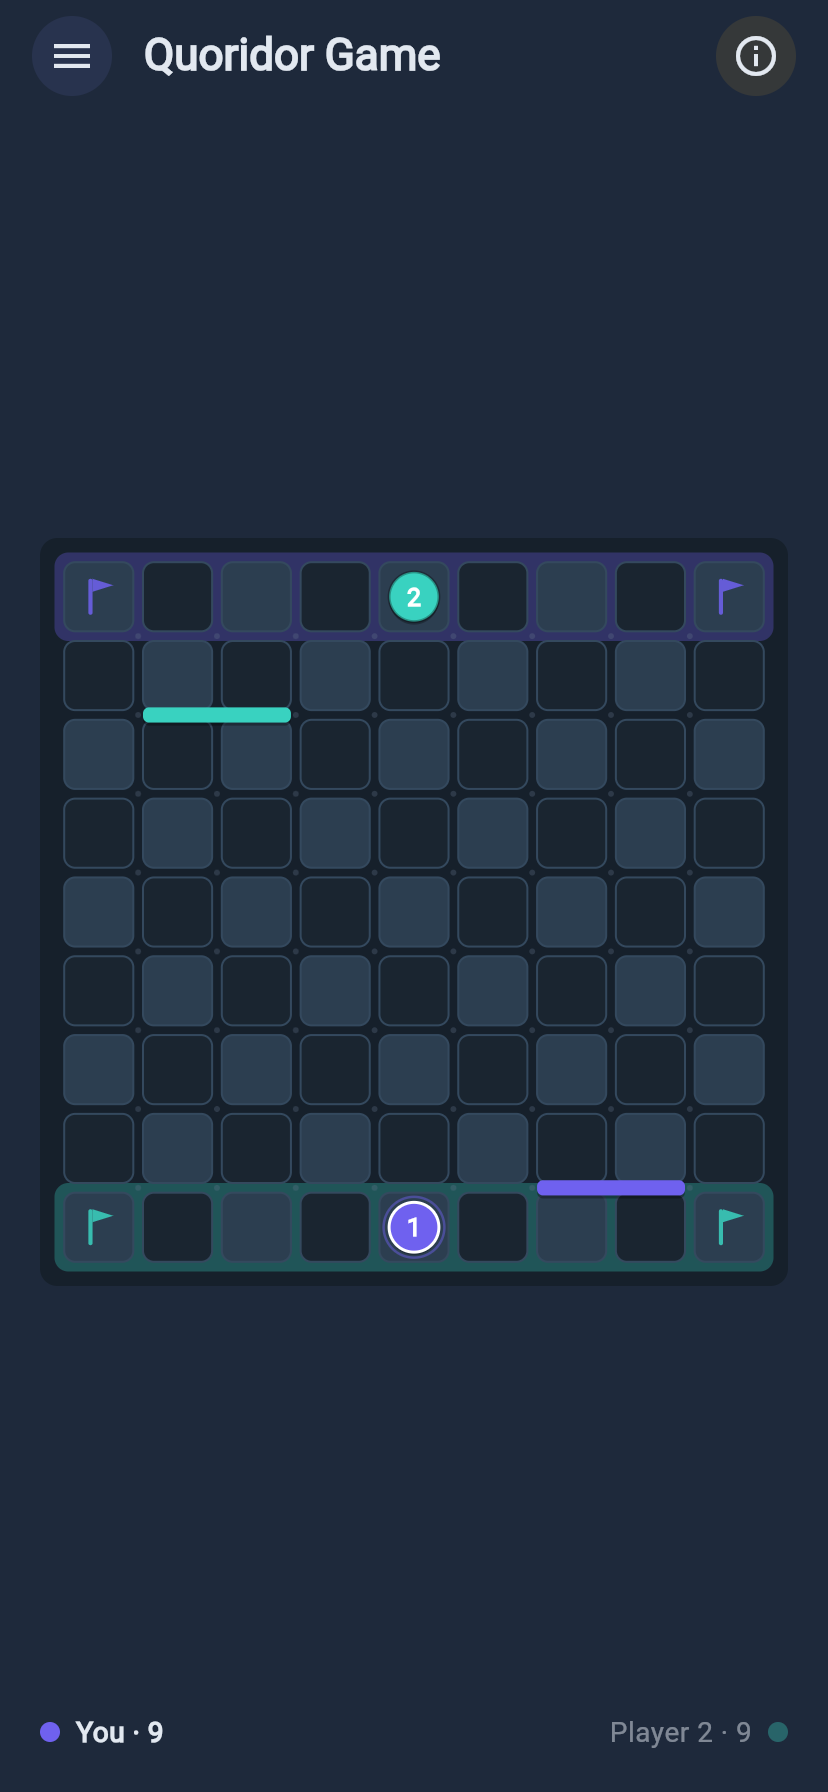
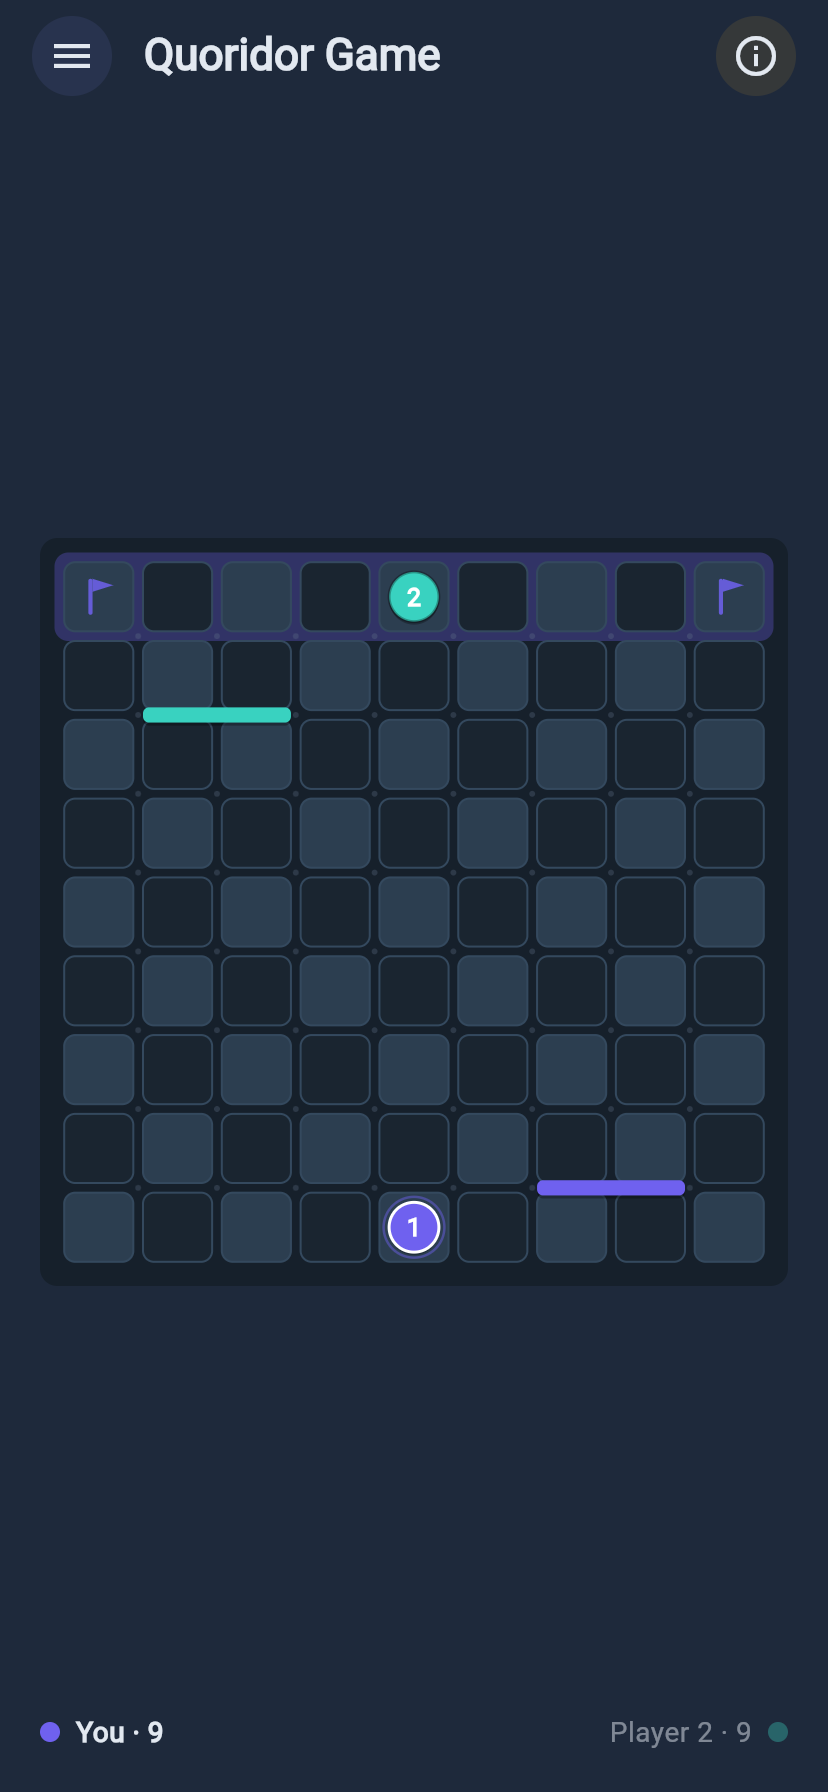
Show the goal strip only for the player to move
The strip is not a legend, it is an answer to "which way am I running" -- so it
belongs to whoever is about to play. It now tints and flags only the current
player's goal row, and swaps ends when the turn passes, which is what makes it
readable at a glance rather than something to decode.

Claude-Session: https://claude.ai/code/session_018MctSY9xbiE2iCSkYMFfts

Changed region(s): [[0.0604, 0.6562, 0.936, 0.7188]]

diff --git a/lib/flame/board_component.dart b/lib/flame/board_component.dart
@@ -205,8 +205,18 @@ class BoardComponent extends PositionComponent {
     );
   }
 
-  /// Tints each player's target row, so it is obvious which way you are
-  /// running without reading anything. The flags go on top, in
+  /// The goal row belonging to whoever is to move.
+  ({int row, Color color}) get _currentGoal => _gameState.currentPlayerId == 1
+      ? (
+          row: GameConstants.player1Goal,
+          color: const Color(GameConstants.player1Color),
+        )
+      : (
+          row: GameConstants.player2Goal,
+          color: const Color(GameConstants.player2Color),
+        );
+
+  /// Tints the row the player to move is heading for. The flags go on top, in
   /// [_drawGoalFlags].
   void _drawGoalRows(Canvas canvas) {
     void markRow(int row, Color color) {
@@ -230,9 +240,11 @@ class BoardComponent extends PositionComponent {
       );
     }
 
-    // Player 1 runs to the top row, player 2 to the bottom row.
-    markRow(GameConstants.player1Goal, const Color(GameConstants.player1Color));
-    markRow(GameConstants.player2Goal, const Color(GameConstants.player2Color));
+    // Only the player to move sees their target row. Showing both at once
+    // says where the ends are; showing one says where *you* are going, and the
+    // strip appearing on your turn is what answers "which way am I running".
+    final goal = _currentGoal;
+    markRow(goal.row, goal.color);
   }
 
   /// Flags at both ends of each goal row.
@@ -249,8 +261,8 @@ class BoardComponent extends PositionComponent {
       );
     }
 
-    flagsOn(GameConstants.player1Goal, const Color(GameConstants.player1Color));
-    flagsOn(GameConstants.player2Goal, const Color(GameConstants.player2Color));
+    final goal = _currentGoal;
+    flagsOn(goal.row, goal.color);
   }
 
   /// A small pennant on a pole, centred on [center].

diff --git a/README.md b/README.md
@@ -28,7 +28,7 @@ build is deployed to GitHub Pages from `main` on every push.
 
 | Choose a game mode | The board | Pawn picked up |
 |---|---|---|
-| ![Game mode selection](docs/screenshots/01-game-mode.png) | ![The board, with a flagged goal row at each end](docs/screenshots/02-board.png) | ![The pawn picked up, showing where it can go](docs/screenshots/03-move.png) |
+| ![Game mode selection](docs/screenshots/01-game-mode.png) | ![The board, with the player to move's goal row flagged](docs/screenshots/02-board.png) | ![The pawn picked up, showing where it can go](docs/screenshots/03-move.png) |
 
 | Aiming a wall | Walls placed | Settings |
 |---|---|---|
@@ -52,8 +52,9 @@ wall may never leave either player with no path at all to their goal row. It
 may only make the journey longer.
 
 You win by reaching the row on the opposite side of the board. Player 1 starts
-at the bottom and runs to the top row; player 2 does the reverse. Each goal row
-is tinted and carries a flag at both ends, in that player's colour.
+at the bottom and runs to the top row; player 2 does the reverse. On each turn
+the board tints and flags the goal row belonging to whoever is to move, so the
+strip swaps ends as play alternates.
 
 ### The controls
 
@@ -67,9 +68,10 @@ There are none — the board is the whole interface.
   cannot. A second tap in the same place puts it down. Aiming slightly nearer
   the other gap turns the wall, so there is no rotate button.
 
-Walls carry the colour of whoever placed them, and each goal row is tinted and
-flagged in its owner's colour, so which way you are running is obvious without
-reading anything.
+Walls carry the colour of whoever placed them. **Your** goal row is tinted and
+flagged in your colour on your turn, and the strip moves to the other end when
+the turn passes — so which way you are running is answered without reading
+anything.
 
 Under the board is a single line with each player's name and how many walls
 they have left; the player to move is the bold one.
